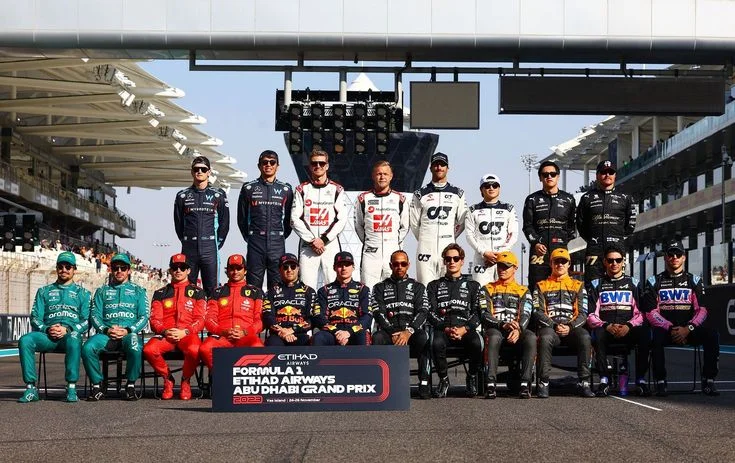
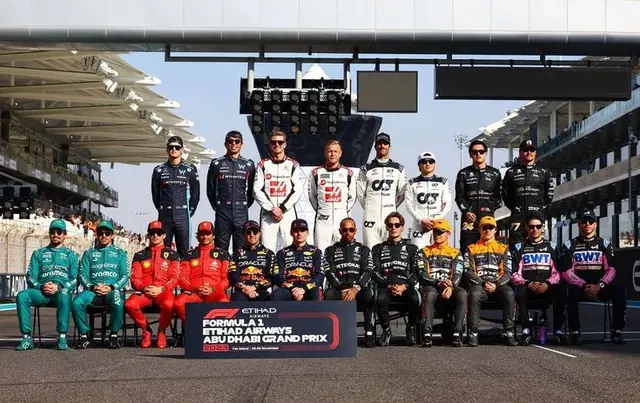
fix: keep the cart link name in line with its visible text and fit slider images

diff --git a/cart.html b/cart.html
@@ -58,7 +58,8 @@
         </div>
         <div class="nav__items">
           <div class="nav__shop">
-            <a href="cart.html" aria-label="Shopping cart">
+            <a href="cart.html">
+              <span class="visually-hidden">Shopping cart</span>
               <i class="nav__basket fa-solid fa-basket-shopping">
                 <span class="nav__quantity"></span>
               </i>

diff --git a/index.html b/index.html
@@ -61,7 +61,8 @@
         </div>
         <div class="nav__items">
           <div class="nav__shop">
-            <a href="cart.html" aria-label="Shopping cart">
+            <a href="cart.html">
+              <span class="visually-hidden">Shopping cart</span>
               <i class="nav__basket fa-solid fa-basket-shopping">
                 <span class="nav__quantity"></span>
               </i>

diff --git a/css/site.css b/css/site.css
@@ -154,6 +154,10 @@ button.nav__menu {
   height: auto;
 }
 
+.slider__img {
+  object-fit: contain;
+}
+
 .cars__body {
   flex-wrap: wrap;
 }
